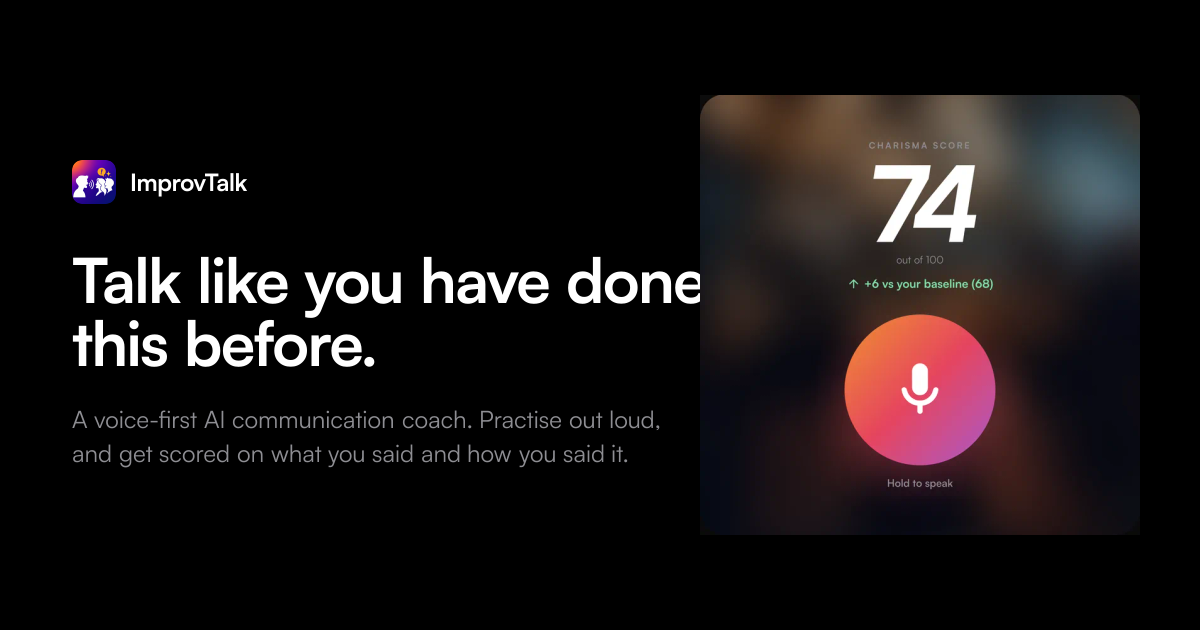
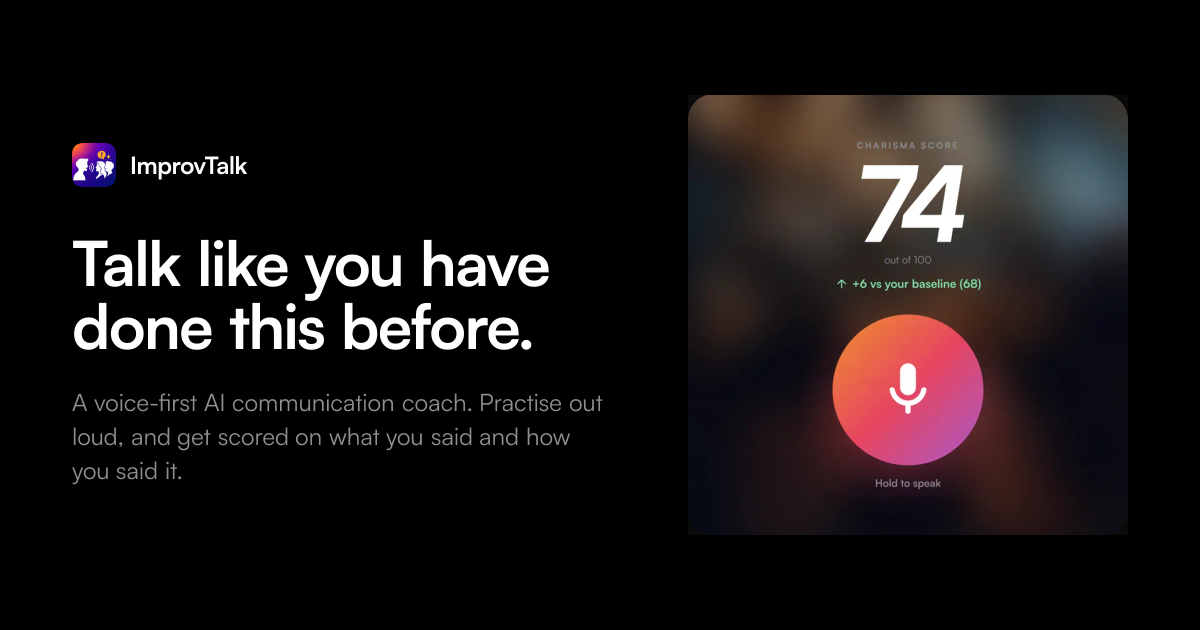
Finish the design-system-B restyle: the review's fixes, the tile that named a price, and the record
963968a took the working tree mid-restyle. This is the rest of it.

The bento carried the app's Max plan card, which shows a weekly price and
"131 scenarios". The site publishes neither — pricing is a placeholder until
launch and the number is not in the counted set — so the tile is the blend
panel instead. The render stays on disk; nothing links to it.

The adversarial review of the diff found nothing high and a handful of real
lows, applied here: the disabled App Store badge dimmed its own label to 2.5:1
(the glyph dims now, the words keep their token); the film counter's
text-muted/80 sat at 4.4:1 (alpha gone); the closing band hard-coded "Three
conversations a week" beside a JSON-LD that reads stats.freeWeekly (derived
now); two bento tiles were eager below the fold on both breakpoints (all
lazy); the OG headline ran flush into the composited render (text column
capped, 72px gutter); the /get/ bot guard matched /bot/, which also matches
Cubot phones (named crawlers now); a stale font-family class in two places;
the popup's close control gets the hairline ring the plan asked for; the
confetti drops gold so it is the four blend colours and white.

Not applied, and why, is in history.md: the trend bars keep Tailwind's 4px
top radius, the upright Satoshi stays un-preloaded, the icon subset keeps the
app's names. The PDF did not change — BLEND_INK holds the same four hexes the
sheet was tuned with, so the 88-combination three-page check holds by
construction.
[…]

diff --git a/components/sections/cta-band.tsx b/components/sections/cta-band.tsx
@@ -1,4 +1,5 @@
 import { InstallBlock } from '@/components/ui/install'
+import { stats } from '@/content/catalogs'
 import type { Persona } from '@/content/personas'
 
 /**
@@ -8,7 +9,13 @@ import type { Persona } from '@/content/personas'
  * needed the whole argument first — one card, the violet pill, the App Store
  * badge, and nothing the hero did not already promise.
  */
+/* The free allowance, spelled out from the counted value so this band and the
+   JSON-LD Offer can never disagree. */
+const WORDS = ['no', 'one', 'two', 'three', 'four', 'five', 'six', 'seven'] as const
+const freeWeekly = WORDS[stats.freeWeekly] ?? String(stats.freeWeekly)
+
 export function CtaBand({ persona }: { persona: Persona }) {
+  const allowance = freeWeekly.charAt(0).toUpperCase() + freeWeekly.slice(1)
   return (
     <section className="border-t border-line py-20 md:py-28" aria-labelledby="cta-title">
       <div className="container-page">
@@ -19,7 +26,7 @@ export function CtaBand({ persona }: { persona: Persona }) {
               Practise the conversation before you have it.
             </h2>
             <p className="mt-4 max-w-md text-body text-muted">
-              {persona.hero.note} Three conversations a week, and nobody hears you.
+              {persona.hero.note} {allowance} conversations a week, and nobody hears you.
             </p>
           </div>
           <InstallBlock compact />

diff --git a/components/sections/product-bento.tsx b/components/sections/product-bento.tsx
@@ -32,8 +32,11 @@ const TILES: { name: RenderName; caption: string; span: string }[] = [
     span: 'lg:col-span-2',
   },
   {
-    name: 'plan-max',
-    caption: 'Plans — Max first, and recommended.',
+    /* Not the Max plan card: it carries a price and a scenario count, and the
+       site publishes neither — pricing is a placeholder until launch, and the
+       number is not in the counted set. */
+    name: 'setup-blend',
+    caption: 'The blend — four personality sliders that always total 100.',
     span: 'lg:col-span-2',
   },
   {
@@ -57,7 +60,7 @@ export function ProductBento() {
       intro="Four surfaces and one journey: pick a scene, hold the disc and speak, then read the score and what to do about it."
     >
       <ul className="grid gap-4 sm:grid-cols-2 lg:grid-cols-6 lg:gap-5">
-        {TILES.map(({ name, caption, span }, i) => {
+        {TILES.map(({ name, caption, span }) => {
           const r = RENDERS[name]
           return (
             <li key={name} className={span}>
@@ -69,7 +72,7 @@ export function ProductBento() {
                   width={r.width}
                   height={r.height}
                   alt={r.alt}
-                  loading={i < 2 ? 'eager' : 'lazy'}
+                  loading="lazy"
                   decoding="async"
                   className="h-auto w-full rounded-card"
                 />

diff --git a/app/get/get-client.tsx b/app/get/get-client.tsx
@@ -47,8 +47,9 @@ export function GetClient() {
        platform check below, but AdsBot-Google-Mobile identifies as an iPhone
        and was being sent straight to TestFlight — which Ads reads as a landing
        page that redirects. The page is noindex; a bot sees the same button a
-       person does, and nothing else. */
-    if (/bot|crawl|spider|slurp|inspectiontool/i.test(navigator.userAgent)) return
+       person does, and nothing else. Named crawlers rather than /bot/, which
+       also matches Cubot phones — real people who would have lost the forward. */
+    if (/googlebot|adsbot|bingbot|duckduckbot|baiduspider|yandex|applebot|slurp|crawler|spider|inspectiontool|facebookexternalhit|twitterbot|linkedinbot/i.test(navigator.userAgent)) return
 
     const target =
       p === 'ios' && (isLive.ios || isLive.testflight)

diff --git a/components/ui/tips-popup.tsx b/components/ui/tips-popup.tsx
@@ -295,7 +295,7 @@ export function TipsPopup() {
               requestClose()
             }}
             aria-label="Close"
-            className="-mr-2 -mt-2 flex size-9 shrink-0 items-center justify-center rounded-full text-muted transition-colors hover:bg-surface-elev hover:text-ink"
+            className="-mr-2 -mt-2 flex size-9 shrink-0 items-center justify-center rounded-full border border-line text-muted transition-colors hover:border-muted hover:bg-surface-elev hover:text-ink"
           >
             {/* Quiet, not red. Closing is the normal way out, and a red x made
                 people hesitate over it — the same reason the app's End & score

diff --git a/components/ui/confetti.tsx b/components/ui/confetti.tsx
@@ -15,9 +15,9 @@ import { useEffect, useRef } from 'react'
  * is exactly what that setting exists to stop.
  */
 
-/* The four data colours and white — the same values as the tokens in
+/* The four blend colours and white — the same values as the tokens in
    globals.css, spelled out because a canvas cannot read a CSS variable. */
-const COLORS = ['#ff6b6b', '#ffd166', '#7de2a6', '#849cff', '#e0b84a', '#ffffff']
+const COLORS = ['#ff6b6b', '#ffd166', '#7de2a6', '#849cff', '#ffffff']
 
 type Piece = {
   x: number

diff --git a/components/ui/install.tsx b/components/ui/install.tsx
@@ -56,8 +56,9 @@ function StoreBadge({
     'inline-flex items-center gap-2.5 rounded-xl border border-line px-4 py-2.5 text-ink transition-colors'
 
   if (!live) {
+    /* Dim the glyph, not the words: at 55% the muted line fell to 2.5:1. */
     return (
-      <span className={cn(base, 'cursor-default opacity-55')} aria-disabled="true">
+      <span className={cn(base, 'cursor-default [&>svg]:opacity-55')} aria-disabled="true">
         {inner}
       </span>
     )

diff --git a/components/sections/scenario-film.tsx b/components/sections/scenario-film.tsx
@@ -229,7 +229,7 @@ export function ScenarioFilm() {
 
           <div className="mt-4 flex flex-wrap items-baseline justify-between gap-x-6 gap-y-2">
             <p className="max-w-xl text-small text-muted">{current.caption}</p>
-            <p className="text-caption text-muted/80">
+            <p className="text-caption text-muted">
               {active + 1} of {scenarios.length} · plays the next one automatically
             </p>
           </div>

diff --git a/components/ui/prose.ts b/components/ui/prose.ts
@@ -8,7 +8,7 @@
  */
 export const PROSE = `text-body leading-[1.75] text-ink
   [&>p]:mt-6
-  [&>h2]:mt-14 [&>h2]:mb-4 [&>h2]:font-[family-name:var(--font-display)]
+  [&>h2]:mt-14 [&>h2]:mb-4
   [&>h2]:text-2xl [&>h2]:font-bold [&>h2]:leading-tight
   [&>h2]:tracking-[-0.02em] [&>h2]:text-ink
   [&>ul]:mt-6 [&>ul]:space-y-3 [&>ul]:pl-5 [&>ul]:list-disc [&>ul]:marker:text-line

diff --git a/components/sections/header.tsx b/components/sections/header.tsx
@@ -68,7 +68,7 @@ export function Header() {
       )}
     >
       <div className="container-page flex h-16 items-center justify-between gap-6 md:h-20">
-        <Link href="/" className="rounded-md" aria-label="ImprovTalk home">
+        <Link href="/" aria-label="ImprovTalk home">
           <Logo />
         </Link>
 

diff --git a/components/ui/logo.tsx b/components/ui/logo.tsx
@@ -32,7 +32,7 @@ export function Wordmark({ className }: { className?: string }) {
   return (
     <span
       className={cn(
-        'font-[family-name:var(--font-display)] text-body font-bold tracking-[-0.02em] text-ink',
+        'text-body font-bold tracking-[-0.02em] text-ink',
         className,
       )}
     >

diff --git a/history.md b/history.md
@@ -533,3 +533,143 @@ artifact is never served at all.
 site after deploying and fails if it is not this app, if any key route 404s, or
 if the custom domain has been dropped. Green build, broken site is the one
 failure a build-time check cannot catch.
+
+## Design system B on the site
+
+The app shipped design system B (`ImprovTalk/apps/mobile/src/ui/theme.ts`,
+the case study in `~/Desktop/ImprovTalk-portfolio/`), and the proposal that
+chose it named the site's old navy-and-blue palette as the thing being replaced.
+The site now carries exactly the app's `darkColors` and nothing else:
+
+| Token | Value | Job |
+|---|---|---|
+| `canvas` | `#000000` | the page; every section starts here |
+| `surface` / `surface-elev` | `#1F1F1F` / `#2A2A2A` | cards, dialogs; a chip on a card |
+| `line` | `#313131` | the only hairline — borders, section edges |
+| `ink` / `muted` | `#FFFFFF` / `#8E8E93` | two text levels, no third |
+| `accent` + `on-accent` | `#849CFF` + `#000000` | **a fill with black text**: pill, active nav, filled bar, focus ring |
+| `accent-text` | `#849CFF` | violet as words, for links and the active nav label only |
+| `danger` `warn` `success` `gold` | `#FF6B6B` `#FFD166` `#7DE2A6` `#E0B84A` | numbers, dots, bars, glyphs — never chrome |
+
+**The brand gradient is zero CSS on the site.** It lives in the app icon and
+inside the app renders (the Hold-to-speak disc), which is where B confines it in
+the app. `--gradient-brand`, `--gradient-brand-cta`, `rule-brand` and `brand-pan`
+are gone; primary actions are the flat violet pill. CLAUDE.md rule 8 changed to
+say so.
+
+**Sections are all `canvas`, separated by a hairline.** B's own screens are a
+black ground with grey cards, not grey bands, so the `deep`/`brand`/`raised`
+tones and the curved band tops went. Cards use `panel` (surface + line +
+`rounded-card`, 24px — the one radius). Eyebrows are muted, never coloured.
+Category and personality colours are a dot beside grey text, never a tinted card.
+
+**Type is Satoshi Variable**, one family for display (700) and body (400/500),
+plus the italic — the hero's emphasis word uses it, as the app's own hero
+style does. The woff2 files were lifted from the design-system proposal
+artifact (they are Fontshare's own subset, 41 KB + 42 KB); `next/font/local`
+declares `300 900`, so `font-bold` is a real cut and the Inter-era "never above
+600" warning is gone. **Not preloaded**, deliberately: the old reasoning still
+holds (swap + adjustFontFallback, nothing to gain at the top of the critical
+path). `scripts/gen-og.mjs` needs static cuts because satori renders only a
+variable font's default instance; those come from Fontshare's CSS API and are
+cached under `assets/fonts/Satoshi-{400,700}.ttf`.
+
+**Icons are the app's Material Symbols Rounded subset**, baked by
+`scripts/bake-icons.mjs` the same way the app bakes its own (Google's CSS API
+with `icon_names=`, a Chrome UA for woff2), addressed by codepoint from
+`lib/icons.ts` through `<Icon name=…>`. Every inline SVG icon went, and so did
+the `→` in link labels (`arrow_forward`); the "Settings → Account" path arrows
+in the privacy and support prose stay — they are punctuation. The subset bakes
+a few names the site does not draw yet (the app's set); 5 KB, and one list to
+keep in step with the app.
+
+**The screenshots are real.** Every phone screen on the site was JSX in the old
+palette. Now `scripts/crop-renders.mjs` cuts the panels out of the two
+case-study composites in `assets/renders/` — panel bounds are detected by
+scanning for pixels that differ from the ground colour, so nothing is typed by
+hand and a re-export re-crops itself — and writes `public/app/*.webp` at 1400
+and 700 wide plus `lib/renders.ts` with real dimensions and alt text. The hero
+carries `score-disc` (the one panel with the gradient disc); the bento after it
+carries `live-session`, `score-screen`, `setup-rows`, `choice-list`,
+`setup-blend`, `tab-bar`, `icon-strip`; Scoring carries `score-screen`; Learn
+carries `home`. **`plan-max` is cropped but never placed:** it shows a weekly
+price and "131 scenarios", and the site publishes neither. The renders carry
+their own frames, grounds and corners; nothing is added around them.
+
+**Traps found on the way:**
+
+1. **tailwind-merge does not know custom names.** `cn()` treated `text-small`
+   and `text-on-accent` as two colours and dropped whichever came first — every
+   violet pill rendered white text (2.6:1), every nav link lost its size.
+   `lib/utils.ts` now tells it the four size names are font sizes. Any new
+   `--text-*` token has to be added there too.
+2. **A modal `<dialog>` must keep the UA's `position: fixed`.** The tips popup
+   carried `relative`, which put the card in normal flow at the top of the
+   document: opened after scrolling — which is when the dwell timer fires — the
+   visitor saw a blurred page and no dialog. Pre-existing; fixed and verified
+   at scroll 708 (card at top 96, in the viewport).
+3. **Dropping the radius scale changed unchanged lines.** `rounded-t-sm` on the
+   trend bars and `rounded-md` on the logo link fell back to Tailwind's
+   defaults (4px, 6px). The bars keep 4px on purpose — a 12px pill top on a
+   22px bar was a half-circle; the logo link lost the class.
+4. **Alpha modifiers undercut the contrast pass.** `text-muted/80` measured
+   4.38:1 and the disabled store badge's `opacity-55` took its label to 2.5:1;
+   both gone. Dim a glyph, not the words.
+5. **The site's port is not free on this machine.** `npm run serve:out` uses
+   3001, which Docker's Grafana holds; `serve` silently falls back to a random
+   port and a browser check against 3001 sees a Grafana login. Use another port
+   and confirm the title before trusting a capture.
+
+**Measured, not eyeballed** (`out/` served locally, Playwright): at 1440 the h1
+is Satoshi 700 at 76px on two lines, no gradient background anywhere in the
+rendered DOM, zero console errors; at 390 all five persona headlines sit on
+exactly two lines at 33.6px and no page (persona, blog, about, survey, get,
+method) scrolls horizontally. Contrast: black on `#849CFF` 8.2:1, `#8E8E93`
+5.1:1 on surface and 6.4:1 on black, `#849CFF` as text 8.2:1 on black.
+
+**The PDF did not change.** `lib/tips-pdf.ts` keeps the four blend hues it was
+tuned with on white paper in its own `BLEND_INK` table, so moving
+`COLORS[].hex` to the screen tokens moved nothing on the sheet; same text, same
+fonts, same geometry, so the 88-combination three-page check holds by
+construction. `GOALS[].hue` and `TIPS[].hue` are read only by the sheet and were
+left alone.
+
+**Deferred:** a light theme (B has a derived one; the site is dark only and
+`colorScheme` stays dark), and trimming the icon subset to the names in use.
+
+## The redirect report
+
+Search Console reported pages *not indexed — Page with redirect*. Audited every
+mechanism that can produce one; the internal links, sitemap, canonicals and
+robots were already clean (every `href` in `app/ components/ content/ lib/`
+ends in `/`).
+
+**Intentional and correct, and Google lists them anyway:** `http://` → 301
+`https://`, `www.` → 301 apex, and any slashless path → 301 its slash form
+(`trailingSlash: true` on Pages). A Domain property shows every one of these
+as "Page with redirect". Nothing to fix; confirm the reported URLs are these.
+
+**Already fixed, and Google's memory lags:** until `65831ba` (2 Sep 2026) the
+A/B `location.replace()` on `/` had no bot exclusion, so Googlebot had a 50%
+chance of being bounced from the canonical page into a then-`noindex` variant.
+If `https://improvtalk.vip/` itself is in the report, that is why — request
+indexing and validate the fix.
+
+**Two live leftovers, now closed:**
+
+1. `/?v=<slug>` still hard-redirected — the override was not gated by
+   `ACTIVE_SPLIT`, so any such link anywhere on the web was a live redirect off
+   the canonical page. Removed (`components/variant-assign.tsx`); every persona
+   is its own URL, so forcing one is a matter of opening it.
+2. `/get/` forwarded any iPhone UA straight to TestFlight with no delay —
+   including AdsBot-Google-Mobile, which identifies as an iPhone, so Ads would
+   read the page as a redirecting landing page. Named crawlers are now excluded
+   (`app/get/get-client.tsx`); the page is `noindex` and a bot sees the same
+   button a person does. Named, not `/bot/`, which also matches Cubot phones.
+
+**CI now asserts redirects instead of following them.** The smoke job used
+`curl -sL` everywhere, so a 301 into a 200 read as 200 and it could not see a
+redirect at all. `deploy.yml` now pins the three intentional 301s and requires
+`/`, `/second-language/` and `/blog/` to answer 200 with no `Location` — a
+canonical URL that starts redirecting fails the build.
+
